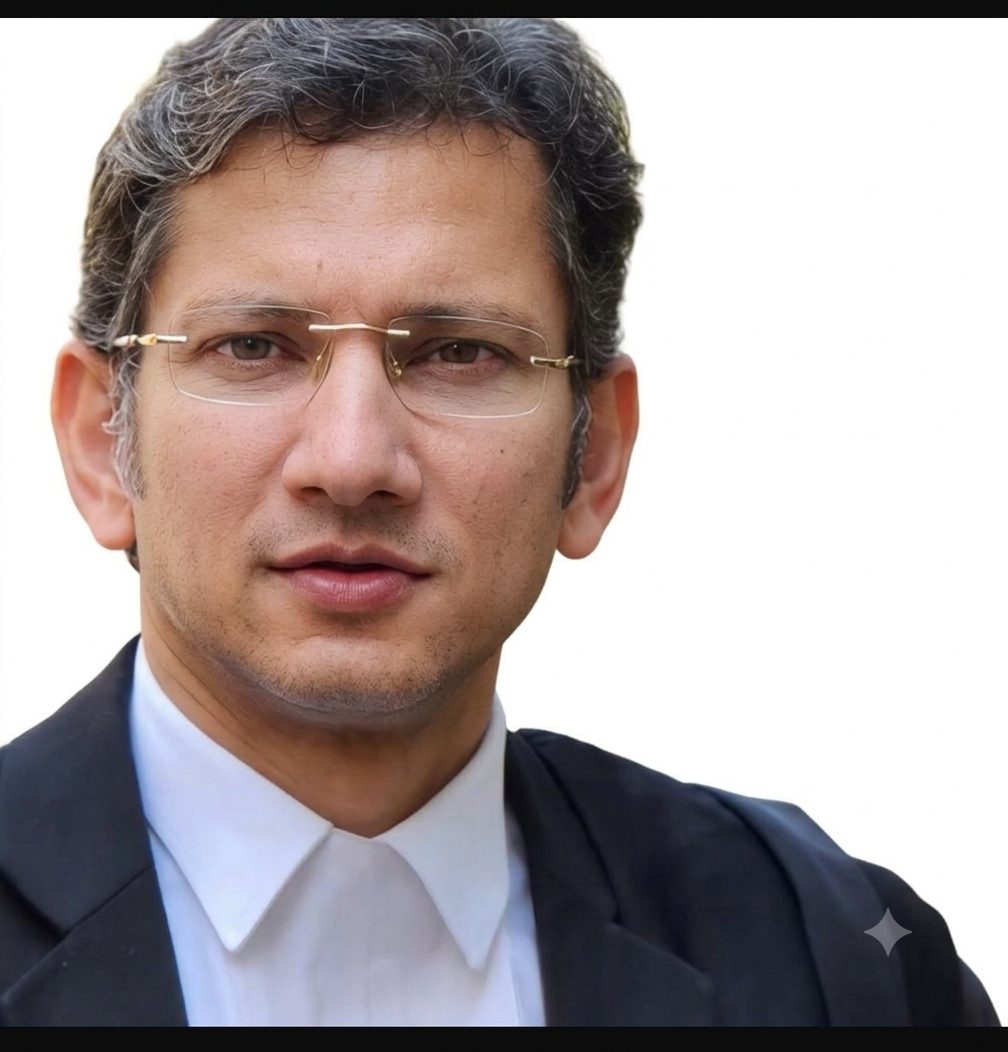
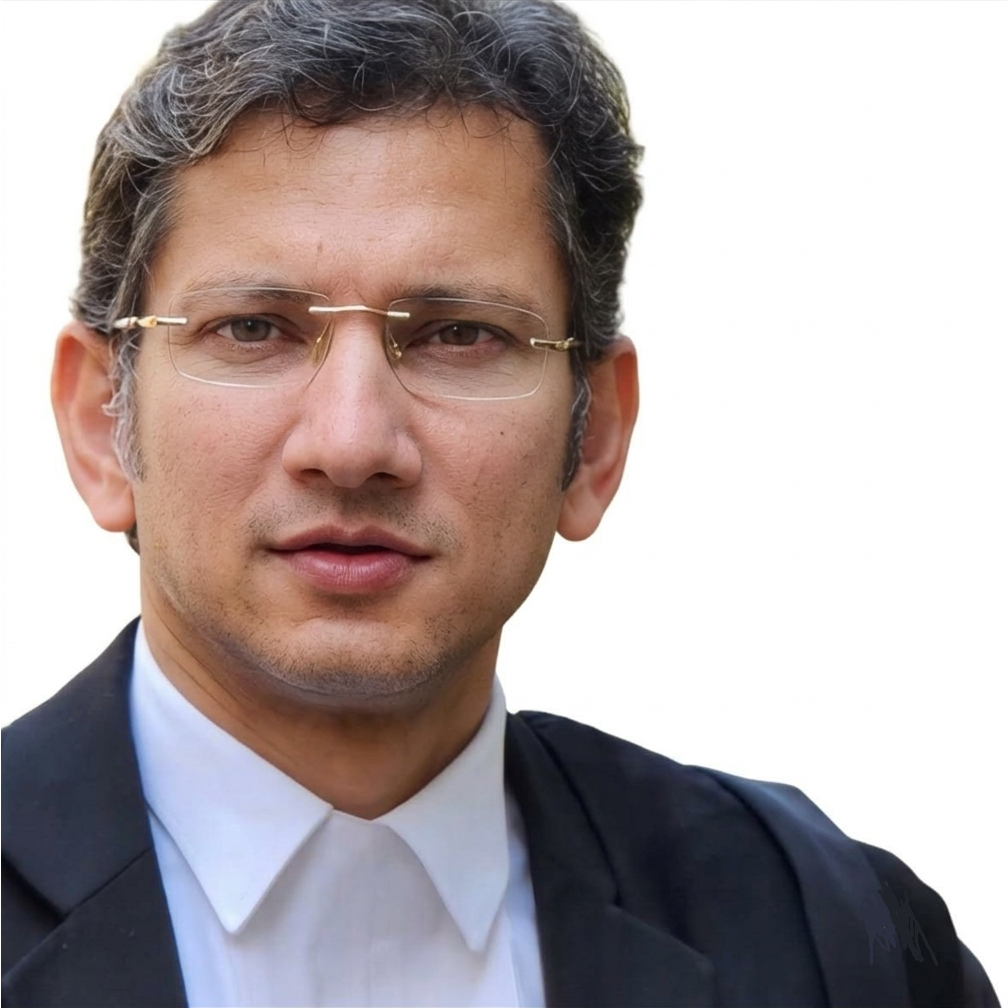
Add expandable leadership profiles

diff --git a/WebSiteCode/styles.css b/WebSiteCode/styles.css
@@ -1,4 +1,17 @@
 :root{--ink:#14251f;--pine:#183b32;--cream:#f4f1e9;--paper:#fcfbf7;--gold:#b99b63;--muted:#66706b;--line:#d9d8d0}*{box-sizing:border-box}html{scroll-behavior:smooth}body{margin:0;background:var(--paper);color:var(--ink);font-family:'DM Sans',sans-serif;font-size:16px;line-height:1.6}h1,h2,h3,p{margin-top:0}h1,h2,h3{font-weight:500;line-height:1.08}h1,h2{font-family:'Playfair Display',serif}h1{font-size:clamp(3.4rem,6.6vw,6.9rem);letter-spacing:-.055em}h2{font-size:clamp(2.45rem,4vw,4.55rem);letter-spacing:-.045em}h3{font-size:1.3rem}em{color:var(--gold);font-weight:500}a{color:inherit;text-decoration:none}.mobile-only{display:none}.topbar{background:#112d26;color:#e8e7df;display:flex;justify-content:space-between;align-items:center;padding:11px max(5vw,32px);font-size:.73rem;letter-spacing:.045em}.topbar p{margin:0}.topbar a{color:#e0c797}.topbar span{margin-left:7px}.site-header{height:98px;display:flex;justify-content:space-between;align-items:center;padding:0 max(5vw,32px);border-bottom:1px solid rgba(20,37,31,.09);position:relative;z-index:3;background:var(--paper)}.brand{display:grid;grid-template-columns:34px auto;grid-template-rows:auto auto;column-gap:9px;line-height:1}.brand span{grid-row:1/3;align-self:center;border:1px solid var(--gold);border-radius:50%;width:34px;height:34px;display:grid;place-items:center;color:var(--gold);font-family:'Playfair Display',serif;font-size:.8rem}.brand strong{font-family:'Playfair Display',serif;font-size:1.1rem;font-weight:600;letter-spacing:.02em}.brand small{font-size:.5rem;letter-spacing:.16em;margin-top:5px;color:var(--muted)}nav{display:flex;align-items:center;gap:31px;font-size:.82rem;font-weight:600}nav a:not(.nav-contact){position:relative}nav a:not(.nav-contact)::after{content:"";position:absolute;width:0;height:1px;background:var(--gold);left:0;bottom:-5px;transition:.2s}.nav-contact{border:1px solid var(--ink);padding:11px 17px}.menu-button{display:none;background:none;border:0}.hero{min-height:590px;background:var(--pine);color:#f8f6f0;overflow:hidden}.hero-copy{min-width:0;max-width:980px;padding:clamp(70px,10vw,140px) max(5vw,32px) clamp(70px,8vw,110px);position:relative}.eyebrow{letter-spacing:.18em;font-size:.68rem;font-weight:700;color:var(--gold);margin-bottom:25px}.hero h1{max-width:740px;margin-bottom:26px}.hero h1 em{color:#e1c791}.hero-text{max-width:505px;color:#cbd2cd;font-size:1.05rem;margin-bottom:36px}.hero-actions{display:flex;align-items:center;gap:30px}.button{display:inline-flex;align-items:center;justify-content:center;gap:25px;border:0;padding:15px 21px;font:700 .76rem 'DM Sans',sans-serif;letter-spacing:.06em;text-transform:uppercase;cursor:pointer;transition:.2s}.button span{font-size:1.25rem;line-height:0}.button-light{background:#f7f4eb;color:var(--ink)}.button-light:hover{background:#e2c994}.button-gold{background:var(--gold);color:#fff}.button-gold:hover{background:#d0b37d}.text-link{font-size:.76rem;letter-spacing:.08em;font-weight:700;text-transform:uppercase}.text-link span{font-size:1.2rem;margin-left:9px;color:var(--gold)}.trust-strip{display:grid;grid-template-columns:repeat(3,1fr);padding:26px 5%;border-bottom:1px solid var(--line);background:var(--cream)}.trust-strip div{display:flex;align-items:center;justify-content:center;gap:17px;border-right:1px solid var(--line)}.trust-strip div:last-child{border:0}.trust-strip span{font:500 1.55rem 'Playfair Display',serif}.trust-strip p{font-size:.68rem;line-height:1.3;max-width:125px;margin:0;text-transform:uppercase;letter-spacing:.07em;color:var(--muted)}.section{padding:clamp(82px,10vw,150px) max(5vw,32px)}.intro{display:grid;grid-template-columns:1.05fr .95fr;gap:11vw}.intro h2{max-width:570px}.intro-body{max-width:540px;padding-top:7px}.intro-body p{font-size:1.05rem;color:#4f5d57}.intro-body .text-link{display:inline-block;margin-top:12px}.dark{color:var(--ink)}.services{background:#f0eee7}.section-heading{display:flex;justify-content:space-between;gap:55px;align-items:end;margin-bottom:54px}.section-heading h2{max-width:690px;margin-bottom:0}.section-heading>p{max-width:370px;margin-bottom:5px;color:var(--muted);font-size:.94rem}.service-grid{display:grid;grid-template-columns:repeat(3,1fr);border-top:1px solid #c9c9c1}.service-grid article{min-height:292px;padding:28px 25px 22px 0;margin-right:25px;border-bottom:1px solid #c9c9c1;position:relative}.service-grid article:nth-child(3n){margin-right:0}.service-num{font-size:.68rem;color:var(--gold);font-weight:700;letter-spacing:.12em}.service-grid h3{margin-top:48px;margin-bottom:14px;font-family:'Playfair Display',serif;font-size:1.45rem}.service-grid p{color:var(--muted);font-size:.87rem;line-height:1.65;max-width:280px}.service-grid a{position:absolute;bottom:22px;right:0;border:1px solid #b9bdb8;width:33px;height:33px;border-radius:50%;display:grid;place-items:center;color:var(--gold);transition:.2s}.service-grid a:hover{background:var(--pine);color:#fff;border-color:var(--pine)}.courts{display:grid;grid-template-columns:1fr 1fr;background:var(--ink);color:#f4f1e9}.courts-copy{padding:clamp(82px,10vw,140px) 9vw max(5vw,32px)}.courts-copy h2{max-width:570px}.courts-copy>p:not(.eyebrow){color:#b9c1bc;max-width:450px;margin:28px 0 36px}.court-list{padding:clamp(82px,10vw,140px) max(5vw,32px) 60px;border-left:1px solid rgba(255,255,255,.14)}.court-list p{font:500 clamp(1.35rem,2vw,2rem) 'Playfair Display',serif;padding:15px 0;border-bottom:1px solid rgba(255,255,255,.15);margin:0}.credentials{display:block}.credentials-copy{max-width:720px}.credentials-copy h2{max-width:650px}.credentials-copy>p:not(.eyebrow){color:var(--muted);max-width:570px;margin:25px 0 31px}.qualifications{border-top:1px solid var(--line);margin-bottom:30px}.qualifications>div{display:grid;grid-template-columns:85px 1fr;align-items:center;padding:13px 0;border-bottom:1px solid var(--line)}.qualifications span{font:600 .73rem 'DM Sans',sans-serif;letter-spacing:.07em;color:var(--gold)}.qualifications p{font-size:.77rem;margin:0;line-height:1.4}.process{display:grid;grid-template-columns:.9fr 1.1fr;gap:8vw;background:#e9e4d7}.process h2{max-width:470px}.process ol{margin:0;padding:0;list-style:none;border-top:1px solid #c6c1b4}.process li{display:grid;grid-template-columns:58px 1fr;gap:20px;padding:25px 0;border-bottom:1px solid #c6c1b4}.process li>span{font-size:.7rem;color:var(--gold);font-weight:700}.process h3{font-family:'Playfair Display',serif;margin-bottom:5px}.process p{font-size:.89rem;color:var(--muted);margin:0}.insights{background:var(--paper)}.insight-grid{display:grid;grid-template-columns:repeat(3,1fr);gap:22px}.insight-grid article{padding:34px 28px;background:#f0eee7;min-height:267px;display:flex;flex-direction:column}.insight-grid article:nth-child(2){background:var(--pine);color:#fff}.insight-grid article:nth-child(2) p,.insight-grid article:nth-child(2) a{color:#e1c791}.insight-grid p{font-size:.62rem;letter-spacing:.13em;font-weight:700;color:var(--gold)}.insight-grid h3{font:1.45rem/1.25 'Playfair Display',serif;margin:15px 0 auto}.insight-grid a{font-size:.7rem;text-transform:uppercase;font-weight:700;letter-spacing:.08em;color:var(--pine)}.insight-grid a span{margin-left:6px}.contact{display:grid;grid-template-columns:.85fr 1.15fr;gap:10vw;padding:clamp(80px,10vw,130px) max(5vw,32px);background:#b99b63;color:#fff}.contact .eyebrow{color:#17382f}.contact h2{max-width:570px}.contact h2 em{color:var(--pine)}.contact>div>p:not(.eyebrow){max-width:455px;color:#fbf7ed}.contact-note{font-size:.78rem;margin-top:30px!important;padding-left:15px;border-left:2px solid var(--pine)}form{display:grid;gap:18px;padding-top:5px}.form-row{display:grid;grid-template-columns:1fr 1fr;gap:18px}label{font-size:.65rem;text-transform:uppercase;font-weight:700;letter-spacing:.11em;color:#25483f}input,textarea{display:block;width:100%;border:0;border-bottom:1px solid rgba(255,255,255,.6);background:transparent;color:#fff;font:400 .95rem 'DM Sans',sans-serif;padding:11px 0 10px;margin-top:3px;outline:none;resize:vertical}input::placeholder,textarea::placeholder{color:#f3e6ce}input:focus,textarea:focus{border-color:var(--pine)}form .button{justify-self:start;margin-top:5px}.form-message{font-size:.8rem;margin:0;color:var(--pine);font-weight:600}footer{background:#112d26;color:#e7eae5;padding:55px max(5vw,32px) 24px}.footer-top{display:flex;justify-content:space-between;align-items:flex-start;padding-bottom:50px}.footer-top .brand strong{color:#fff}.footer-top .brand small{color:#abb8b1}.footer-top>p{font-size:.78rem;color:#c5cdc8;line-height:1.7}.footer-link{color:#fff}.footer-bottom{border-top:1px solid rgba(255,255,255,.18);padding-top:20px;display:flex;justify-content:space-between;gap:35px;font-size:.61rem;letter-spacing:.04em;color:#aebbb4}.footer-bottom p{margin:0}
 .team-grid,.office-grid{display:grid;grid-template-columns:repeat(3,1fr);gap:24px}.team-grid article{background:#f0eee7;display:flex;flex-direction:column}.team-grid img{display:block;width:100%;aspect-ratio:1.05 / 1;object-fit:cover;object-position:center 18%;filter:grayscale(100%)}.team-grid article>div{padding:28px;display:flex;flex-direction:column;flex:1}.team-grid h3,.office-grid h3{font:500 1.55rem 'Playfair Display',serif;margin-bottom:10px}.team-title{min-height:38px;font-size:.72rem;line-height:1.4;letter-spacing:.09em;text-transform:uppercase;font-weight:700;color:var(--gold);margin-bottom:16px}.team-bio{margin:auto 0 0}.team-bio,.office-grid address{font-size:.86rem;color:var(--muted)}.offices{background:#e9e4d7}.office-grid article{padding:28px;border-top:1px solid #c6c1b4}.office-grid address{font-style:normal;min-height:75px}.office-grid a{font-size:.74rem;text-transform:uppercase;font-weight:700}
-@media(max-width:800px){.topbar{padding:9px 22px}.topbar p{display:none}.topbar{justify-content:flex-end}.site-header{height:80px;padding:0 22px}nav{display:none;position:absolute;top:79px;left:0;right:0;background:var(--paper);padding:25px 22px;flex-direction:column;align-items:flex-start;gap:19px;border-bottom:1px solid var(--line)}nav.open{display:flex}.menu-button{display:grid;gap:5px}.menu-button span{display:block;width:25px;height:1px;background:var(--ink)}.hero-copy{min-width:0;padding:80px 22px 69px}.trust-strip{padding:22px;grid-template-columns:1fr}.trust-strip div{justify-content:flex-start;padding:12px 0;border-right:0;border-bottom:1px solid var(--line)}.trust-strip div:last-child{border-bottom:0}.section{padding:80px 22px}.intro,.credentials,.process,.contact{grid-template-columns:1fr;gap:42px}.section-heading{display:block}.section-heading>p{margin-top:24px}.service-grid,.insight-grid,.team-grid,.office-grid{grid-template-columns:1fr}.service-grid article,.service-grid article:nth-child(3n){margin-right:0;min-height:235px}.courts{grid-template-columns:1fr}.courts-copy{padding:80px 22px 45px}.court-list{border-left:0;padding:20px 22px 75px}.process ol{margin-top:0}.footer-top,.footer-bottom{display:grid;gap:28px}.footer-top{padding-bottom:35px}.form-row{grid-template-columns:1fr}.hero-actions{align-items:flex-start;flex-direction:column;gap:22px}}
+.team .section-heading{display:block;max-width:760px}.team .section-heading>p{max-width:560px;margin:22px 0 0}@media(max-width:800px){.topbar{padding:9px 22px}.topbar p{display:none}.topbar{justify-content:flex-end}.site-header{height:80px;padding:0 22px}nav{display:none;position:absolute;top:79px;left:0;right:0;background:var(--paper);padding:25px 22px;flex-direction:column;align-items:flex-start;gap:19px;border-bottom:1px solid var(--line)}nav.open{display:flex}.menu-button{display:grid;gap:5px}.menu-button span{display:block;width:25px;height:1px;background:var(--ink)}.hero-copy{min-width:0;padding:80px 22px 69px}.trust-strip{padding:22px;grid-template-columns:1fr}.trust-strip div{justify-content:flex-start;padding:12px 0;border-right:0;border-bottom:1px solid var(--line)}.trust-strip div:last-child{border-bottom:0}.section{padding:80px 22px}.intro,.credentials,.process,.contact{grid-template-columns:1fr;gap:42px}.section-heading{display:block}.section-heading>p{margin-top:24px}.service-grid,.insight-grid,.team-grid,.office-grid{grid-template-columns:1fr}.service-grid article,.service-grid article:nth-child(3n){margin-right:0;min-height:235px}.courts{grid-template-columns:1fr}.courts-copy{padding:80px 22px 45px}.court-list{border-left:0;padding:20px 22px 75px}.process ol{margin-top:0}.footer-top,.footer-bottom{display:grid;gap:28px}.footer-top{padding-bottom:35px}.form-row{grid-template-columns:1fr}.hero-actions{align-items:flex-start;flex-direction:column;gap:22px}}
 @media(max-width:600px){.mobile-only{display:inline}h1{font-size:2.7rem;letter-spacing:-.045em}.hero-text{font-size:.98rem}}
+
+/* Expandable leadership profiles */
+.team-toggle{display:flex;align-items:center;justify-content:space-between;width:100%;margin-top:24px;padding:12px 0;border:0;border-top:1px solid var(--line);background:transparent;color:var(--ink);font:600 11px/1.2 var(--sans);letter-spacing:.12em;text-transform:uppercase;cursor:pointer;text-align:left}
+.team-toggle>span:last-child{font-size:20px;font-weight:400;line-height:1;transition:transform .2s ease}
+.team-toggle[aria-expanded="true"]>span:last-child{transform:rotate(45deg)}
+.team-details{margin-top:24px;border-top:1px solid var(--line)}
+.team-profile{display:grid;grid-template-columns:minmax(0,1fr) minmax(0,1fr);gap:clamp(32px,7vw,96px);padding:44px 0 8px}
+.team-profile[hidden],.team-details[hidden]{display:none}
+.team-profile h3{margin:8px 0 18px;font:400 clamp(30px,3vw,46px)/1.05 var(--serif);letter-spacing:-.02em}
+.team-profile p{max-width:640px;margin:0 0 16px;color:var(--muted);font-size:15px;line-height:1.65}
+.team-profile .eyebrow{margin:0;color:var(--gold);font-size:10px;line-height:1.3;letter-spacing:.18em}
+.team-profile strong{display:block;margin-bottom:5px;color:var(--ink);font-size:11px;line-height:1.3;letter-spacing:.12em;text-transform:uppercase}
+@media(max-width:800px){.team-profile{grid-template-columns:1fr;gap:18px;padding-top:30px}.team-profile p{font-size:14px}}

diff --git a/WebSiteCode/script.js b/WebSiteCode/script.js
@@ -13,3 +13,134 @@ document.querySelector('form')?.addEventListener('submit', event => {
   event.preventDefault();
   document.querySelector('.form-message').textContent = 'Thank you. Please add the firm email address to activate online enquiries.';
 });
+
+const teamDetails = document.querySelector('#team-details');
+const teamToggles = document.querySelectorAll('.team-toggle');
+const teamPanels = document.querySelectorAll('[data-profile-panel]');
+teamToggles.forEach(toggle => {
+  toggle.addEventListener('click', () => {
+    const key = toggle.dataset.profile;
+    const wasExpanded = toggle.getAttribute('aria-expanded') === 'true';
+    teamToggles.forEach(button => {
+      button.setAttribute('aria-expanded', 'false');
+      const label = button.querySelector('.team-toggle-label');
+      if (label) label.textContent = 'View profile';
+    });
+    teamPanels.forEach(panel => { panel.hidden = true; });
+    if (wasExpanded) {
+      if (teamDetails) teamDetails.hidden = true;
+      return;
+    }
+    const panel = document.querySelector(`[data-profile-panel="${key}"]`);
+    if (!panel || !teamDetails) return;
+    toggle.setAttribute('aria-expanded', 'true');
+    const label = toggle.querySelector('.team-toggle-label');
+    if (label) label.textContent = 'Hide profile';
+    panel.hidden = false;
+    teamDetails.hidden = false;
+    teamDetails.scrollIntoView({ behavior: 'smooth', block: 'nearest' });
+  });
+});
+
+/* Build the leadership profile controls from the equal team cards. */
+const leadershipSection = document.querySelector('#team');
+const leadershipGrid = leadershipSection?.querySelector('.team-grid');
+if (leadershipSection && leadershipGrid && !leadershipSection.querySelector('.team-details')) {
+  const profiles = {
+    faisal: {
+      name: 'Faisal Naseem',
+      title: 'Head of Litigation',
+      intro: 'Faisal Naseem is an advocate in independent practice in New Delhi with twenty years at the Bar. He advises and appears in civil, commercial, arbitration and criminal matters before the Supreme Court of India, the High Court of Delhi, District and Commercial Courts and specialist tribunals.',
+      body: 'His work focuses on high-stakes disputes involving property and title, construction and development contracts, succession, recovery, insolvency, land acquisition and urban local bodies. He also drafts commercial agreements and real-estate documents with an eye trained by the disputes those documents later generate.',
+      meta: '<p><strong>Practice areas</strong> Commercial and contractual disputes; arbitration; real estate and property; succession, wills and family matters; insolvency and recovery; regulatory and urban-body disputes; criminal practice; advisory and documentation.</p><p><strong>Forums and credentials</strong> Supreme Court of India, High Court of Delhi, NCLT, DRT, arbitral tribunals, consumer, revenue and Waqf forums. LL.M. and PG Diploma in International Trade Law, Indian Law Institute; LL.B., Campus Law Centre, University of Delhi; B.Com., Zakir Husain College. Bar Council of Delhi enrolment D/1281/2006.</p>'
+    },
+    sandeep: {
+      name: 'Sandeep Kaushik',
+      title: 'Head of Taxation',
+      intro: 'Sandeep Kaushik is an advocate with a decade of litigation experience across civil, commercial, arbitration and criminal matters. He leads taxation work with a practical focus on clear filings, defensible positions and responsive advice.',
+      body: 'His practice supports individuals and businesses through direct and indirect tax matters, compliance reviews, assessments, notices and related litigation, while connecting tax advice with accounting, finance and corporate requirements.',
+      meta: '<p><strong>Practice areas</strong> Income-tax returns and assessments; GST, VAT and service-tax matters; TDS, PF and ESI compliance; accounting, audit and financial reporting; incorporation and corporate advisory; MSME and project-finance support.</p><p><strong>Approach</strong> Tax planning and compliance designed around the client’s operating reality, with coordinated documentation and timely follow-through.</p>'
+    },
+    rakesh: {
+      name: 'Rakesh Kumar Yadav',
+      title: 'Head of Management Consultancy',
+      intro: 'Rakesh Kumar Yadav advises founders, enterprises and organisations on business setup, operating systems and practical compliance. His work connects commercial planning with the legal, tax and financial processes needed to run with confidence.',
+      body: 'He also supports dispute resolution and public-interest work, bringing an implementation-minded perspective to matters that span operations, documentation and regulatory requirements.',
+      meta: '<p><strong>Practice areas</strong> Company, LLP, OPC and partnership registration; Startup India and MSME; business plans and bank-loan project reports; SOPs; contracts and shareholder agreements; labour, ROC and IPR compliance; GST, income tax, TDS, accounting and bookkeeping.</p><p><strong>Dispute support</strong> Money recovery and commercial disputes, partnership disputes, cheque-bounce matters and civil and commercial litigation in Delhi courts. Education includes LL.B., M.S.W. and B.Com.</p>'
+    }
+  };
+
+  const details = document.createElement('div');
+  details.className = 'team-details';
+  details.id = 'team-details';
+  details.hidden = true;
+  details.innerHTML = Object.entries(profiles).map(([key, profile]) => `<article class="team-profile" id="team-profile-${key}" data-profile-panel="${key}" hidden><div><p class="eyebrow">${profile.name.toUpperCase()}</p><h3>${profile.title}</h3><p>${profile.intro}</p><p>${profile.body}</p></div><div class="profile-meta">${profile.meta}</div></article>`).join('');
+  leadershipGrid.after(details);
+
+  leadershipGrid.querySelectorAll('article').forEach((card, index) => {
+    const key = Object.keys(profiles)[index];
+    const content = card.querySelector('div');
+    if (!content || !key) return;
+    const button = document.createElement('button');
+    button.className = 'team-toggle';
+    button.type = 'button';
+    button.dataset.profile = key;
+    button.setAttribute('aria-expanded', 'false');
+    button.setAttribute('aria-controls', `team-profile-${key}`);
+    button.innerHTML = '<span class="team-toggle-label">View profile</span><span aria-hidden="true">+</span>';
+    content.append(button);
+    button.addEventListener('click', () => {
+      const open = button.getAttribute('aria-expanded') === 'true';
+      leadershipGrid.querySelectorAll('.team-toggle').forEach(other => {
+        other.setAttribute('aria-expanded', 'false');
+        other.querySelector('.team-toggle-label').textContent = 'View profile';
+      });
+      details.querySelectorAll('[data-profile-panel]').forEach(panel => { panel.hidden = true; });
+      if (open) { details.hidden = true; return; }
+      button.setAttribute('aria-expanded', 'true');
+      button.querySelector('.team-toggle-label').textContent = 'Hide profile';
+      details.querySelector(`[data-profile-panel="${key}"]`).hidden = false;
+      details.hidden = false;
+      details.scrollIntoView({ behavior: 'smooth', block: 'nearest' });
+    });
+  });
+}
+
+/* Ensure the controls are mounted even when this file is loaded in the document head. */
+function mountLeadershipProfiles() {
+  const section = document.querySelector('#team');
+  const grid = section?.querySelector('.team-grid');
+  if (!section || !grid || section.querySelector('.team-toggle')) return;
+  const records = [
+    ['faisal', 'Faisal Naseem', 'Head of Litigation', 'Civil, commercial and arbitration counsel with twenty years at the Bar. His work covers property, construction, succession, recovery, insolvency and disputes with urban authorities before the Supreme Court, Delhi High Court, district courts and specialist tribunals.'],
+    ['sandeep', 'Sandeep Kaushik', 'Head of Taxation', 'Advocate focused on income tax, GST, assessments, notices, TDS, PF and ESI compliance, accounting and financial reporting, with related corporate and litigation support.'],
+    ['rakesh', 'Rakesh Kumar Yadav', 'Head of Management Consultancy', 'Advises founders and enterprises on incorporation, business plans, SOPs, contracts, labour and ROC compliance, IPR, GST, accounting and practical operating systems, with civil and commercial dispute support.']
+  ];
+  const details = document.createElement('div');
+  details.className = 'team-details';
+  details.id = 'team-details';
+  details.hidden = true;
+  details.innerHTML = records.map(([key, name, title, copy]) => `<article class="team-profile" data-profile-panel="${key}" hidden><div><p class="eyebrow">${name.toUpperCase()}</p><h3>${title}</h3><p>${copy}</p></div><div class="profile-meta"><p><strong>Profile</strong> Click another leadership card to explore that specialist area.</p></div></article>`).join('');
+  grid.after(details);
+  records.forEach(([key], index) => {
+    const card = grid.querySelectorAll('article')[index];
+    const content = card?.querySelector('div');
+    if (!content) return;
+    const button = document.createElement('button');
+    button.className = 'team-toggle';
+    button.type = 'button';
+    button.dataset.profile = key;
+    button.setAttribute('aria-expanded', 'false');
+    button.innerHTML = '<span class="team-toggle-label">View profile</span><span aria-hidden="true">+</span>';
+    content.append(button);
+    button.addEventListener('click', () => {
+      const expanded = button.getAttribute('aria-expanded') === 'true';
+      grid.querySelectorAll('.team-toggle').forEach(item => { item.setAttribute('aria-expanded', 'false'); item.querySelector('.team-toggle-label').textContent = 'View profile'; });
+      details.querySelectorAll('[data-profile-panel]').forEach(panel => { panel.hidden = true; });
+      details.hidden = expanded;
+      if (!expanded) { button.setAttribute('aria-expanded', 'true'); button.querySelector('.team-toggle-label').textContent = 'Hide profile'; details.querySelector(`[data-profile-panel="${key}"]`).hidden = false; }
+    });
+  });
+}
+if (document.readyState === 'loading') document.addEventListener('DOMContentLoaded', mountLeadershipProfiles);
+else mountLeadershipProfiles();
